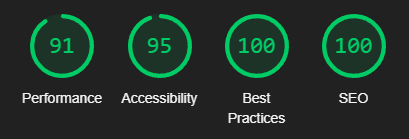
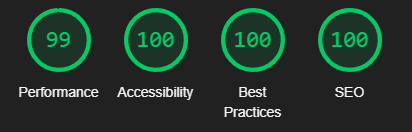
Update eligibility mobile lighthouse score

diff --git a/TESTING.md b/TESTING.md
@@ -113,7 +113,7 @@ _CSS_ - [https://jigsaw.w3.org/css-validator/](https://jigsaw.w3.org/css-validat
 
 2. _eligibility.html:_
 
-![eligibility.html mobile](assets/images/testing/eligibility-html-mobile.png)
+![eligibility.html mobile](assets/images/testing/eligibility-submission-mobile.png)
 
 3. _about.html:_
 
